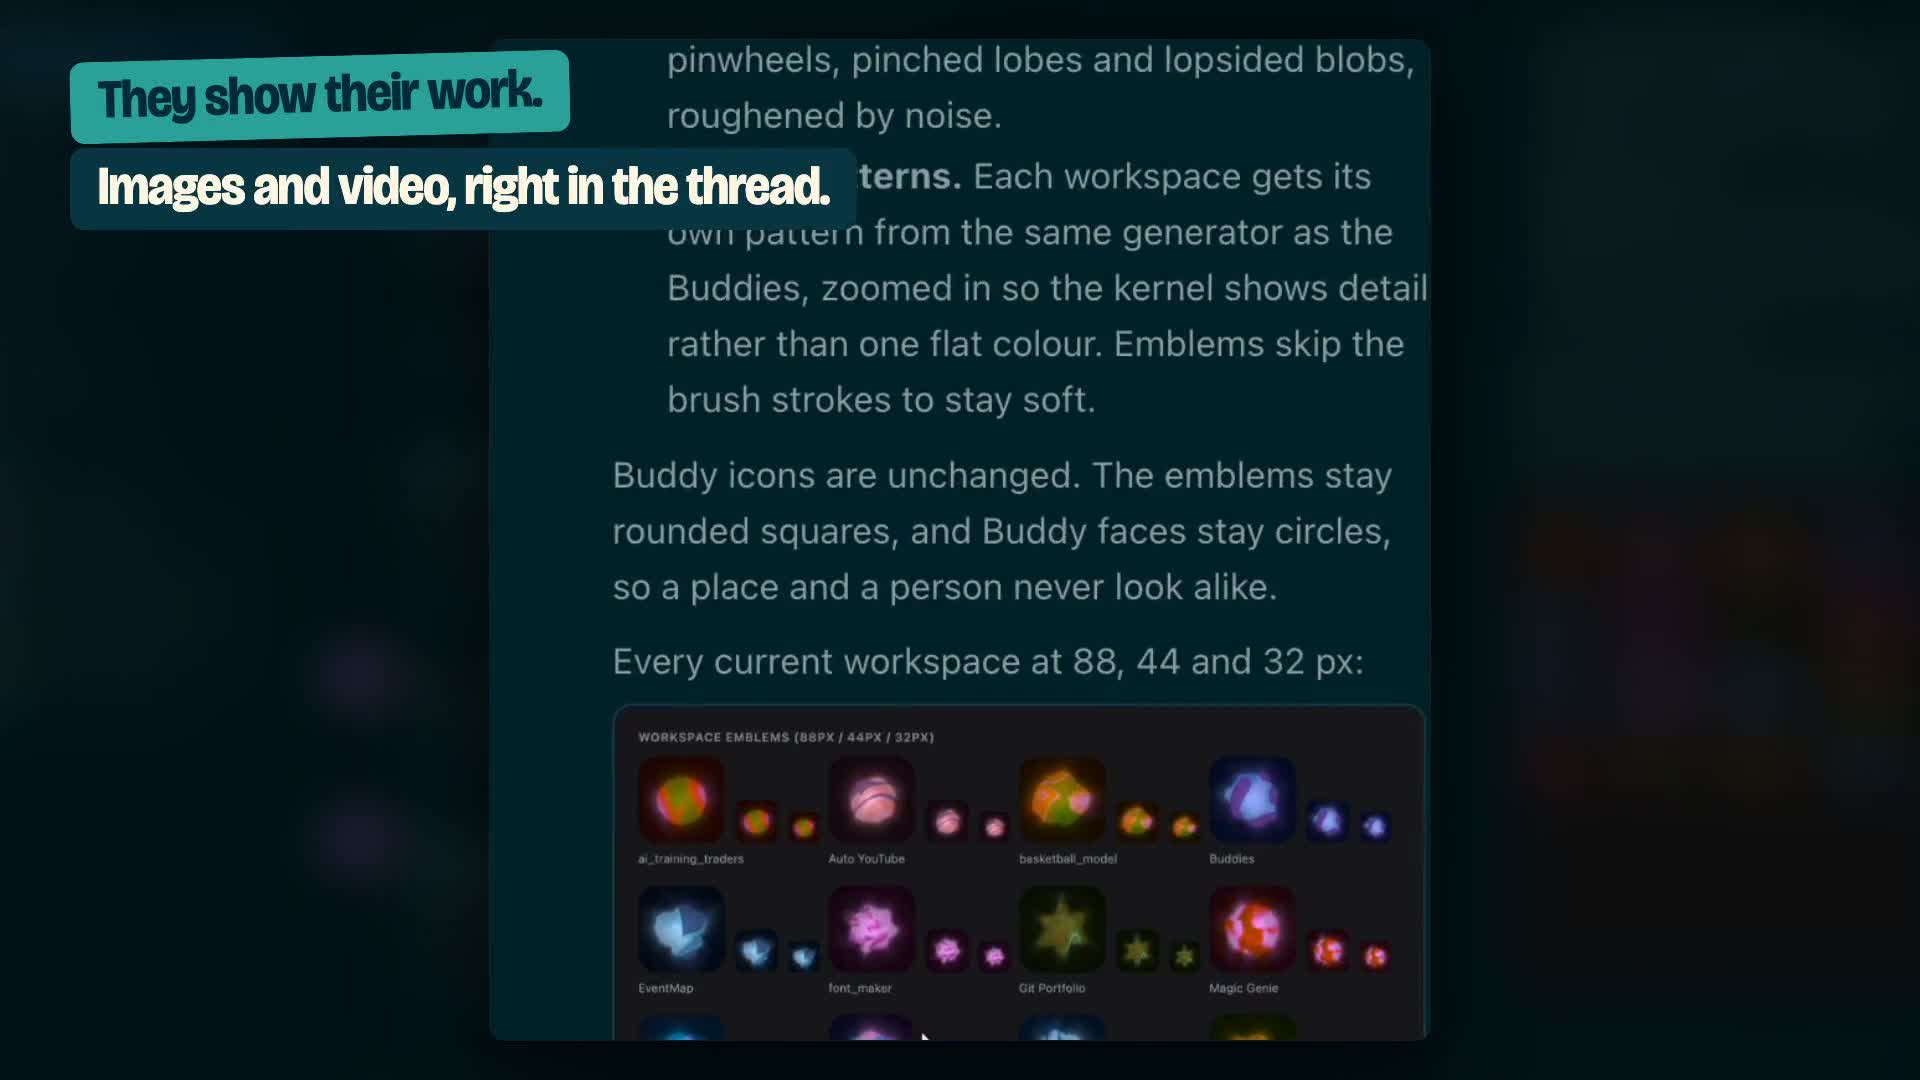
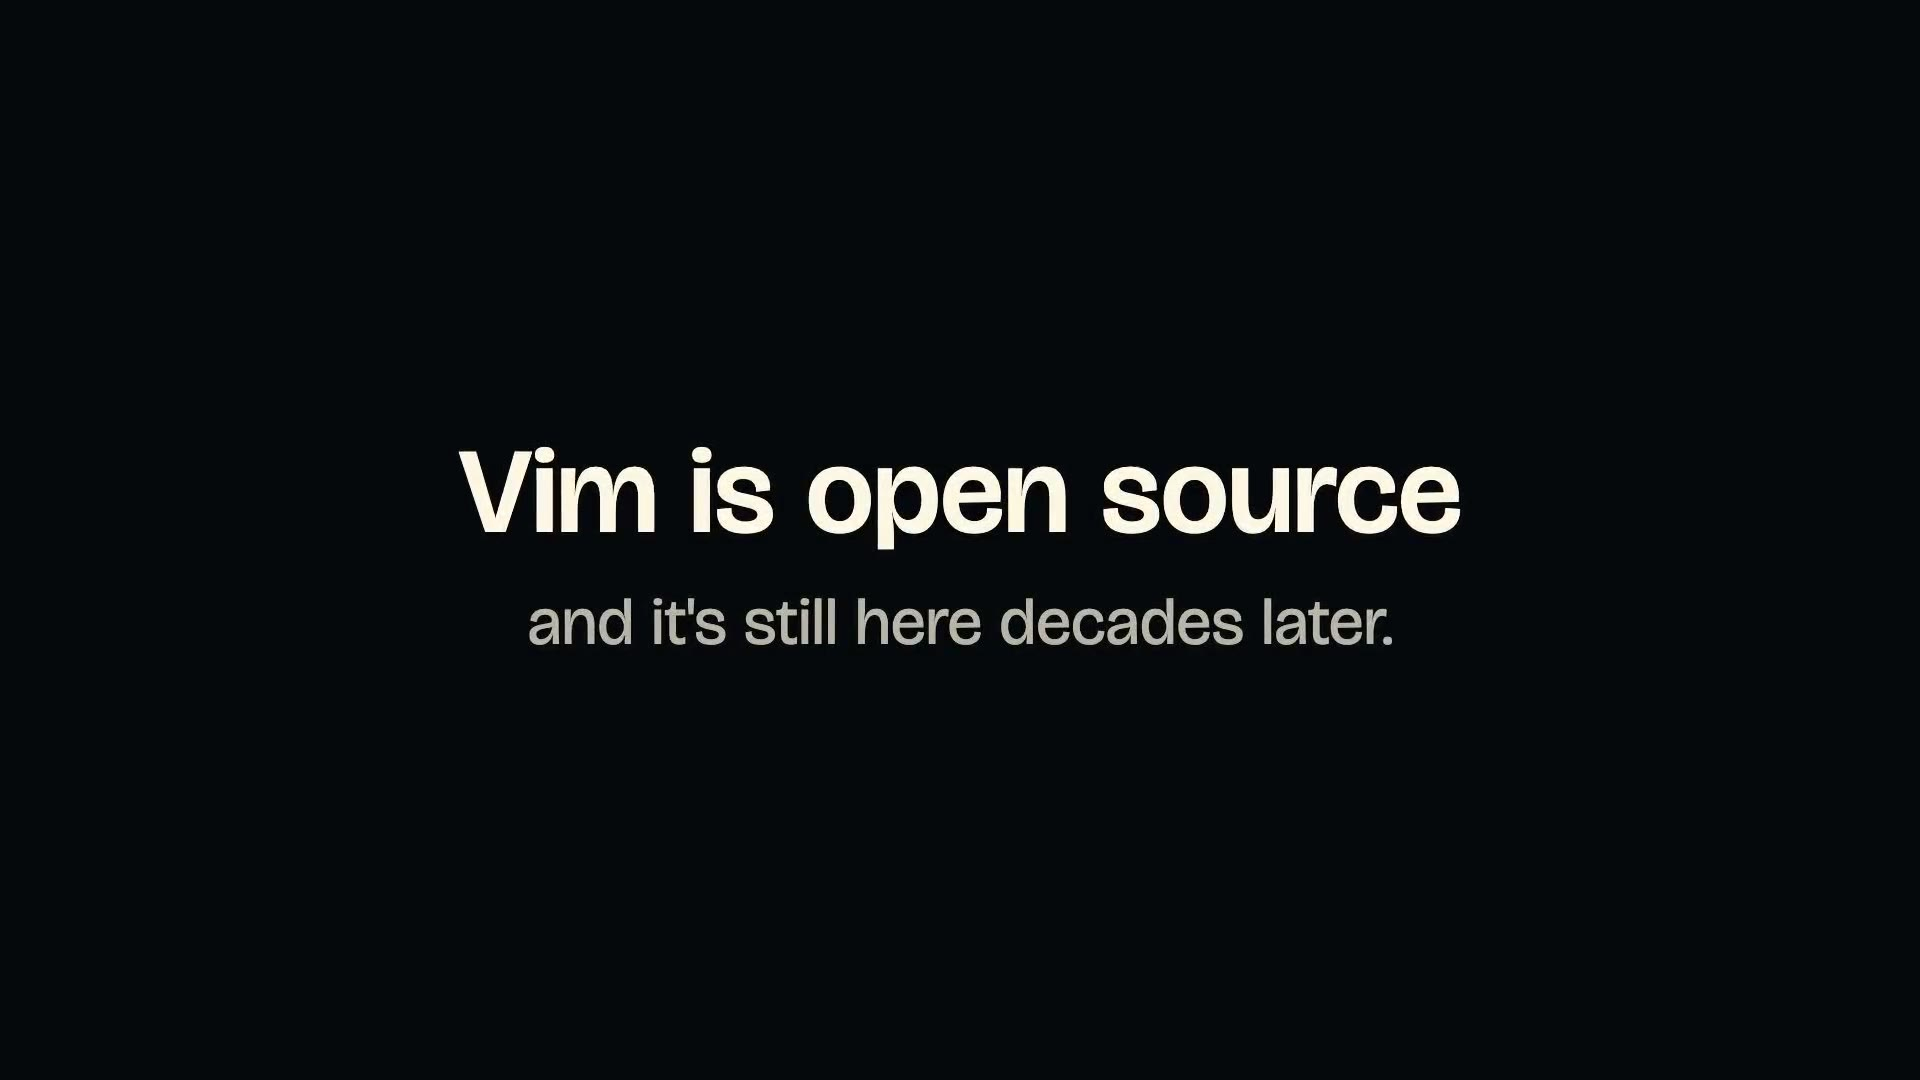
docs(site): the video's Vim card is its poster; drop the repeated Vim headline and autoplay
The page repeated the video's Vim line as text under the player. The poster is now
that frame (73.5 s), shown until play, so the line appears once, inside the video.

diff --git a/docs/index.html b/docs/index.html
@@ -6,7 +6,7 @@
     <title>Buddies - your team of AI agents. Free, open source, multi harness.</title>
     <meta name="description" content="Buddies is a free, open source, multi-harness agent team orchestrator. Claude Code, Codex and Gemini side by side, OpenCode read-only. Runs on your own computer.">
     <link rel="icon" type="image/svg+xml" href="icon.svg">
-    <link rel="icon" type="image/png" sizes="192x192" href="icon-192.png">
+    <link rel="icon" type="image/png" sizes="32x32" href="icon-32.png">
     <link rel="apple-touch-icon" href="icon-192.png">
     <meta name="theme-color" content="#0b0a14">
 
@@ -99,7 +99,7 @@
         .lockup {
             display: inline-flex;
             align-items: center;
-            gap: calc(2.4rem * 0.24); /* 0.24 x the mark (BuddiesKit Lockup) */
+            gap: 0.24em; /* Lockup on the web: brand/BUDDIES_BRAND.md */
             text-decoration: none;
             font-weight: 700;
             font-stretch: 92%;
@@ -109,7 +109,7 @@
             letter-spacing: -0.026em;
         }
 
-        .mark { width: 2.4rem; height: 2.4rem; display: block; flex: none; }
+        .mark { width: 1em; height: 1em; display: block; flex: none; }
 
         .glass {
             background: var(--glass);
@@ -134,25 +134,12 @@
 
         .pill svg { width: 1.05rem; height: 1.05rem; fill: currentColor; }
 
-        /* Hero: the Vim line leads. */
+        /* Hero: under the video, the pitch and the install. */
         .hero { text-align: center; padding: 4rem 0 1rem; }
 
         .tags { display: flex; gap: 0.6rem; justify-content: center; flex-wrap: wrap; margin-bottom: 2.25rem; }
 
-        h1 {
-            font-weight: 700;
-            font-stretch: 92%;
-            font-size: clamp(2.4rem, 6.4vw, 5rem);
-            letter-spacing: -0.035em;
-            line-height: 1.02;
-            max-width: 18ch;
-            margin: 0 auto;
-        }
-
-        h1 .second { display: block; color: var(--quiet); margin-top: 0.15em; }
-
         .accent-violet { color: var(--violet); }
-        .accent-teal { color: var(--teal); }
 
         .pitch {
             font-size: clamp(1.1rem, 2.1vw, 1.35rem);
@@ -247,7 +234,9 @@
 
         .btn-primary svg { width: 1.2rem; height: 1.2rem; fill: currentColor; }
 
-        /* Media frames: the launch video leads the page, right under the nav (owner, 2026-10-05:
+        /* Media frames: the launch video leads the page. No autoplay: the poster is the video's Vim
+           card (73.5 s), shown until play, and the page no longer repeats it as text (owner, 2026-10-05).
+           The launch video leads the page, right under the nav (owner, 2026-10-05:
            text before the video read as "a wall of text"). */
         .frame {
             position: relative;
@@ -345,7 +334,6 @@
         }
 
         footer .lockup { font-size: 1.15rem; color: var(--quiet); margin-bottom: 0.75rem; }
-        footer .mark { width: 1.8rem; height: 1.8rem; }
         footer a:hover { color: var(--cream); }
 
         @media (max-width: 768px) {
@@ -374,7 +362,7 @@
     <div class="page">
         <nav>
             <a class="lockup" href="./" aria-label="Buddies home">
-                <svg class="mark" aria-hidden="true"><use href="#pair"/></svg>
+                <svg class="mark" viewBox="8 8 84 84" aria-hidden="true"><use href="#pair" width="100" height="100"/></svg>
                 Buddies
             </a>
             <a class="pill glass" href="https://github.com/nbardy/buddies">
@@ -385,7 +373,7 @@
 
         <div class="video-section">
             <div class="frame">
-                <video autoplay muted loop playsinline controls preload="metadata" poster="screenshots/video-poster.jpg" aria-label="Buddies launch video">
+                <video muted loop playsinline controls preload="metadata" poster="screenshots/video-poster.jpg" aria-label="Buddies launch video">
                     <source src="resources/unleashd-2.mp4" type="video/mp4">
                 </video>
             </div>
@@ -397,7 +385,6 @@
                 <span class="pill glass">Free</span>
                 <span class="pill glass">Multi harness</span>
             </div>
-            <h1>Vim is open source and it's still here decades later.<span class="second">Agent software should be <span class="accent-teal">too.</span></span></h1>
             <p class="pitch"><strong>Buddies is your team of AI agents.</strong> Channels, tasks and memory for Claude Code, Codex and Gemini, side by side, on your own computer.</p>
             <div class="actions">
                 <div class="install-box glass">
@@ -480,7 +467,7 @@
 
         <footer>
             <a class="lockup" href="https://github.com/nbardy/buddies">
-                <svg class="mark" aria-hidden="true"><use href="#pair"/></svg>
+                <svg class="mark" viewBox="8 8 84 84" aria-hidden="true"><use href="#pair" width="100" height="100"/></svg>
                 Buddies
             </a>
             <p>Free and open source. Built by <a href="https://github.com/nbardy" target="_blank" rel="noopener">nbardy</a>.</p>
